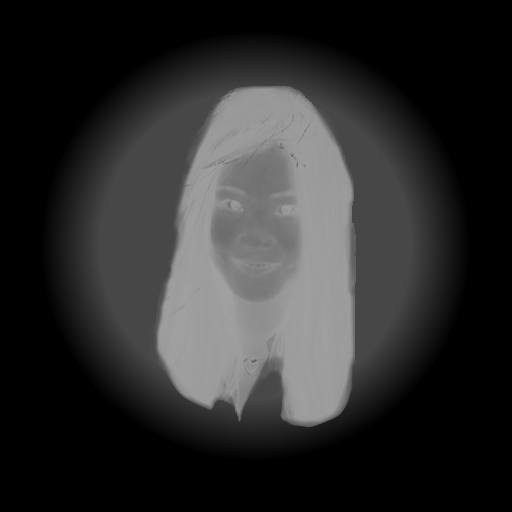
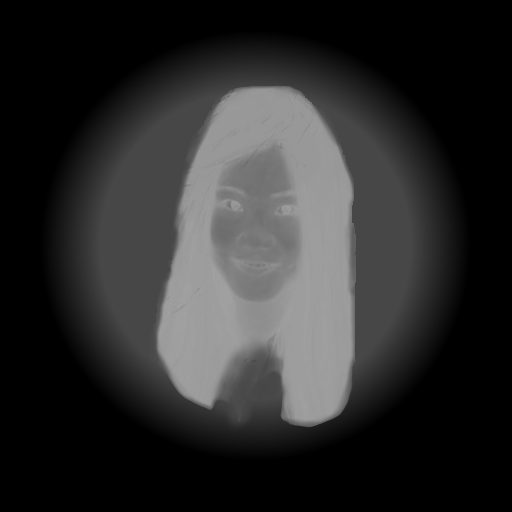
implemented terrain

Changed region(s): [[0.4062, 0.6562, 0.5312, 0.8125]]

diff --git a/src/org/shaman/terrain/jessica/JessicaIsland.java b/src/org/shaman/terrain/jessica/JessicaIsland.java
@@ -109,6 +109,51 @@ public class JessicaIsland extends SimpleApplication {
         loadHintText();
     }
 
+	private void initAlphaMap(Image image) {
+		Texture2D a1 = (Texture2D) assetManager.loadTexture("org/shaman/terrain/jessica/TexAlpha1.png");
+		Texture2D a2 = (Texture2D) assetManager.loadTexture("org/shaman/terrain/jessica/TexAlpha2.png");
+		Texture2D a3 = (Texture2D) assetManager.loadTexture("org/shaman/terrain/jessica/TexAlpha3.png");
+		Texture2D a4 = (Texture2D) assetManager.loadTexture("org/shaman/terrain/jessica/TexAlpha4.png");
+		ByteBuffer d1 = a1.getImage().getData(0);
+		ByteBuffer d2 = a2.getImage().getData(0);
+		ByteBuffer d3 = a3.getImage().getData(0);
+		ByteBuffer d4 = a4.getImage().getData(0);
+		System.out.println("size d1="+d1.capacity()+" d2="+d2.capacity()+" d3="+d3.capacity()+" d4="+d4.capacity());
+		ByteBuffer data = image.getData(0);
+		if (data == null) {
+			data = BufferUtils.createByteBuffer(512*512*4);
+		}
+		System.out.println("output size="+data.capacity());
+		data.rewind();
+		d1.rewind();
+		d2.rewind();
+		d3.rewind();
+		d4.rewind();
+		for (int x=0; x<512; ++x) {
+			for (int y=0; y<512; ++y) {
+				float r = d1.get(); d1.get(); d1.get(); float ra = d1.get();
+				float g = d2.get(); d2.get(); d2.get(); float ga = d2.get();
+				float b = d3.get(); d3.get(); d3.get(); float gb = d3.get();
+				float a = d4.get(); d4.get(); d4.get(); float aa = d4.get();
+				r *= ra;
+				g *= ga;
+				b *= gb;
+				a *= aa;
+				float sum = r+g+b+a;
+				sum /= 255;
+				r /= sum;
+				g /= sum;
+				b /= sum;
+				a /= sum;
+				data.put((byte) r).put((byte) g).put((byte) b).put((byte) a);
+			}
+		}
+		data.rewind();
+		image.setFormat(Image.Format.RGBA8);
+		image.setWidth(512);
+		image.setHeight(512);
+		image.setData(0, data);
+	}
     @Override
     public void simpleInitApp() {
         setupKeys();
@@ -125,17 +170,29 @@ public class JessicaIsland extends SimpleApplication {
 		Texture2D alphaMap = new Texture2D(heightMapImage.getImage().getWidth(), 
 				heightMapImage.getImage().getHeight(), Image.Format.ABGR8);
         
-        // DARK ROCK texture
-        Texture darkRock = assetManager.loadTexture("org/shaman/terrain/rock2.jpg");
-        darkRock.setWrap(WrapMode.Repeat);
-        matTerrain.setTexture("DiffuseMap", darkRock);
-        matTerrain.setFloat("DiffuseMap_0_scale", 16/256f);
-        
         // GRASS texture
         Texture grass = assetManager.loadTexture("org/shaman/terrain/grass.jpg");
         grass.setWrap(WrapMode.Repeat);
         matTerrain.setTexture("DiffuseMap_1", grass);
         matTerrain.setFloat("DiffuseMap_1_scale", 32/256f);
+		
+		// DARK ROCK texture
+        Texture darkRock = assetManager.loadTexture("org/shaman/terrain/rock2.jpg");
+        darkRock.setWrap(WrapMode.Repeat);
+        matTerrain.setTexture("DiffuseMap", darkRock);
+        matTerrain.setFloat("DiffuseMap_0_scale", 16/256f);
+		
+		// SAND texture
+        Texture sand = assetManager.loadTexture("org/shaman/terrain/jessica/sand.jpg");
+        sand.setWrap(WrapMode.Repeat);
+        matTerrain.setTexture("DiffuseMap_2", sand);
+        matTerrain.setFloat("DiffuseMap_2_scale", 16/256f);
+		
+		// GRAVEL texture
+//        Texture gravel = assetManager.loadTexture("org/shaman/terrain/jessica/gravel.jpg");
+//        gravel.setWrap(WrapMode.Repeat);
+//        matTerrain.setTexture("DiffuseMap_3", gravel);
+//        matTerrain.setFloat("DiffuseMap_3_scale", 16/256f);
         
         // NORMAL MAPS
         Texture normalMapRock = assetManager.loadTexture("org/shaman/terrain/rock_normal.png");
@@ -158,23 +215,9 @@ public class JessicaIsland extends SimpleApplication {
             e.printStackTrace();
         }
 		
-		Image image = alphaMap.getImage();
-		ByteBuffer data = image.getData(0);
-		if (data == null) {
-			data = BufferUtils.createByteBuffer(512*512*4);
-		}
-		data.rewind();
-		for (int x=0; x<512; ++x) {
-			for (int y=0; y<512; ++y) {
-				float r = 1, g=0;
-				data.put((byte) (255*r)).put((byte) (255*g)).put((byte) 0).put((byte) 0);
-			}
-		}
-		data.rewind();
-		image.setFormat(Image.Format.RGBA8);
-		image.setWidth(512);
-		image.setHeight(512);
-		image.setData(0, data);
+//		Image image = alphaMap.getImage();
+//		initAlphaMap(image);
+		alphaMap = (Texture2D) assetManager.loadTexture("org/shaman/terrain/jessica/Alpha.png");
 		alphaMap.setMagFilter(Texture.MagFilter.Bilinear);
 		matTerrain.setTexture("AlphaMap", alphaMap);
 
@@ -188,9 +231,9 @@ public class JessicaIsland extends SimpleApplication {
          * size=2049, it got really slow. But that is a jump from 2 million to 8 million triangles...
          */
         terrain = new TerrainQuad("terrain", 65, 513, heightmap.getHeightMap());
-        TerrainLodControl control = new TerrainLodControl(terrain, getCamera());
-        control.setLodCalculator( new DistanceLodCalculator(65, 2.7f) ); // patch size, and a multiplier
-        terrain.addControl(control);
+//        TerrainLodControl control = new TerrainLodControl(terrain, getCamera());
+//        control.setLodCalculator( new DistanceLodCalculator(65, 2.7f) ); // patch size, and a multiplier
+//        terrain.addControl(control);
         terrain.setMaterial(matTerrain);
         terrain.setLocalTranslation(0, -100, 0);
         terrain.setLocalScale(2f, 0.5f, 2f);
@@ -248,6 +291,8 @@ public class JessicaIsland extends SimpleApplication {
 //        fpp.addFilter(lsf);
         fpp.addFilter(new FXAAFilter());
 		viewPort.addProcessor(fpp);
+		
+		flyCam.setMoveSpeed(100);
     }
 
     public void loadHintText() {
